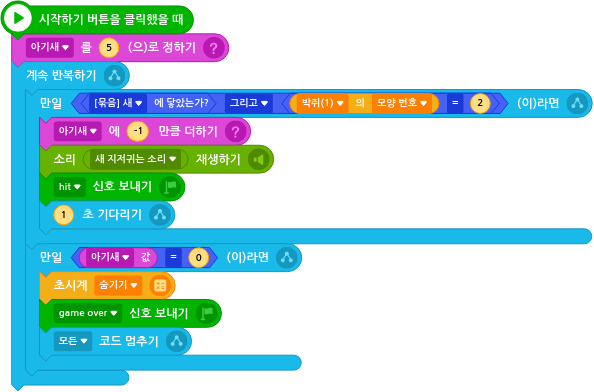
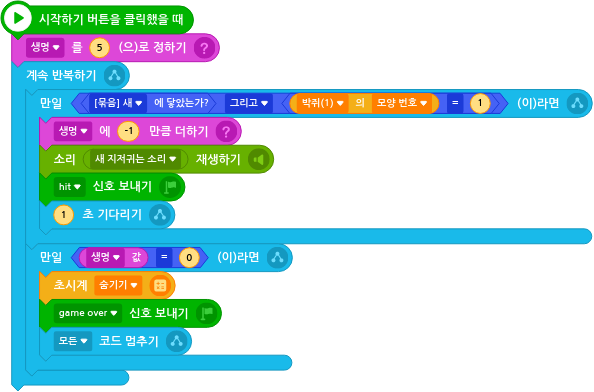
05

diff --git a/05_아기새를지켜라.md b/05_아기새를지켜라.md
@@ -3,7 +3,7 @@
 🚩 오브젝트를 이동시키고, 숨기거나 보일 수 있으며 조건문, 변수, 타이머, 신호, 소리 등을 사용할 수 있습니다.
 
 🎮  **오늘 만들 게임 완성본**   
-[https://naver.me/](https://naver.me/) 
+[https://naver.me/G1sqWKBz](https://naver.me/G1sqWKBz) 
 
 ## 1. 게임 개요
 ![](img/05_아기새를지켜라/5_13.png)
@@ -15,39 +15,127 @@
 
 ### 🧩 오브젝트 추가하기
 > ![](img/05_아기새를지켜라/5_14.png)
+- '구름세상'(배경), 글상자, EAT ME 쿠키, 박쥐, 새 오브젝트를 추가하세요.
+
+
+### 🧩 신호 및 변수 추가하기 
+**승리 신호** 
+- 속성에서 **'win'** 이라는 신호를 추가하세요. 
+
+**패배 신호**
+- 속성에서 **'game over'** 이라는 신호를 추가하세요. 
+
+**닿음 신호**
+- 속성에서 **'hit'** 이라는 신호를 추가하세요. 
+
+  
+**생명 변수**
+- 속성에서 '생명'이라는 변수를 추가해주세요.   
+'생명'변수는 아기 새의 생명을 의미합니다.
 
 
 ### 🧩 타이머 설정하기
 
 > ![](img/05_아기새를지켜라/5_15.png)
+> 
+타이머는 오브젝트에 코딩하지 않고, 배경 오브젝트에서 코딩을 해 줄 예정입니다.
+
+
+
 
 > ![](img/05_아기새를지켜라/5_16.png)
+- 시작하기 버튼을 클릭했을 때 **초시계**를 시작시키세요. 
+- 30초를 기다린 후, 'win' 신호를 보내주세요. 
+- 이후, 초시계를 정지하고 모든 코드를 멈춰 게임을 종료시켜주세요. 
 
 
 
+### 🧩 박쥐 코딩하기
+
+
+> ![](img/05_아기새를지켜라/5_박쥐.png)
+- 박쥐 오브젝트를 선택하세요. 
+
+> ![](img/05_아기새를지켜라/5_18.png)
+- 초기 위치를 x:200, y:100으로 설정해주세요
+- 몸 방향을 좌우로 변경시켜주며 '새' 오브젝트 위치로 이동하는 동작을 계속 반복시켜주세요. 
+  
+박쥐를 클릭하면 모양이 바뀌면서 공격하지 못하는 상태로 변하게 해 줄 예정이에요.
+
+> ![](img/05_아기새를지켜라/5_29.png)
+
+
+
+**박쥐 모양 변경시키기**
+
+> ![](img/05_아기새를지켜라/5_19.png)
+- 박쥐의 초기 모양은 1번 모양인 '박쥐(1)_1'로 설정해주세요. 
+- 박쥐 오브젝트를 클릭하면 모양이 '박쥐(1)_3'으로 바뀌게 한 후, 2초후 다시 '박쥐(1)_1' 모양으로 바뀌게 해주세요. 
+  
+**박쥐->아기새 공격하기**
+![](img/05_아기새를지켜라/5_20.png)
+- '생명' 변수를 5로 설정해주세요. 
+- '박쥐'에 '새'가 닿았을 때 '박쥐'의 모양이 모양번호가 1번인 **박쥐(1)_3** 일 때
+  - 생명을 1 감소시키고 
+  - '새 지저귀는 소리' 효과음을 재생시키고, 
+  - 'hit' 신호를 보내주세요. 
+- '생명'변수의 값이 0이 되었을 때
+  - 초시계를 숨겨주고 
+  - 'game over'신호를 보낸 후
+  - 모든 신호를 멈춰주세요. 
+  
 
 ### 🧩 새 코딩하기
 > ![](img/05_아기새를지켜라/5_새.png)
+- '새' 오브젝트를 선택하세요
 
-![](img/05_아기새를지켜라/5_17.png)
+> ![](img/05_아기새를지켜라/5_24.png)
+- 새가 날개짓을 하는 효과를 내주기 위해 0.2초 간격으로 다음 모양으로 변경되게 해주세요. 
 
-### 🧩 박쥐 코딩하기
-> ![](img/05_아기새를지켜라/5_박쥐.png)
+> ![](img/05_아기새를지켜라/5_25.png)
+- 초기 위치는 x:0 y:0 으로 설정해주세요. 
+- 계속해서 무작위 위치로 이동하도록 해주세요. 
 
-> ![](img/05_아기새를지켜라/5_18.png)
+> ![](img/05_아기새를지켜라/5_26.png)
+- 'hit' 신호를 받았을 때 (박쥐에 닿였을 때), 0.5초 동안 숨겨준 후 다시 나타나게 해주세요. 
 
-> ![](img/05_아기새를지켜라/5_19.png)
 
-![](img/05_아기새를지켜라/5_20.png)
 ### 🧩 쿠키 코딩하기
+아기새가 쿠키에 닿으면 생명이 1개 추가되도록 해줄 예정입니다.
+
 > ![](img/05_아기새를지켜라/5_쿠키.png)
+- 쿠키 오브젝트를 선택하세요. 
+
+> ![](img/05_아기새를지켜라/5_27.png)
+- 아기새가 쿠키에 닿기전에 무작위의 위치로 이동시켜 준 후, 아기새에 닿으면 
+  - 생명 변수에 1을 더해주고
+  - 효과음도 추가해주세요. 
+
 
 ### 🧩 글상자 만들기 
 
 > ![](img/05_아기새를지켜라/5_글상자.png)
+- 글상자 오브젝트를 선택하세요.
+  
+**글상자 크기 및 위치 조정 및 배경색 없애기** 
+
+> ![](img/05_아기새를지켜라/5_28.png)
+- 글상자가 게임 화면의 가운데 오도록 위치시킨 후 적당한 크기로 조정하세요. 
+    
+- **글상자** 설정에서 **배경색 설정** 버튼을 선택한 후 체크 해제하여 배경색이 투명색이 되도록 설정해주세요. 
+
+
+
 
 > ![](img/05_아기새를지켜라/5_21.png)
+- 초기에는 글상자를 숨겨주세요. 
 
 > ![](img/05_아기새를지켜라/5_22.png)
+- 'win' 신호를 받았을 때 '아기 새 지키기 성공!'이라는 메세지를 출력하도록 설정해주세요.
+- (선택) 글씨색, 글씨체를 설정해주세요. 
+- 글상자가 보이도록 해주세요. 
 
 > ![](img/05_아기새를지켜라/5_23.png)
+- 'game over' 신호를 받았을 때 'game over'이라는 메세지를 출력하도록 설정해주세요.
+- (선택) 글씨색, 글씨체를 설정해주세요. 
+- 글상자가 보이도록 해주세요. 
